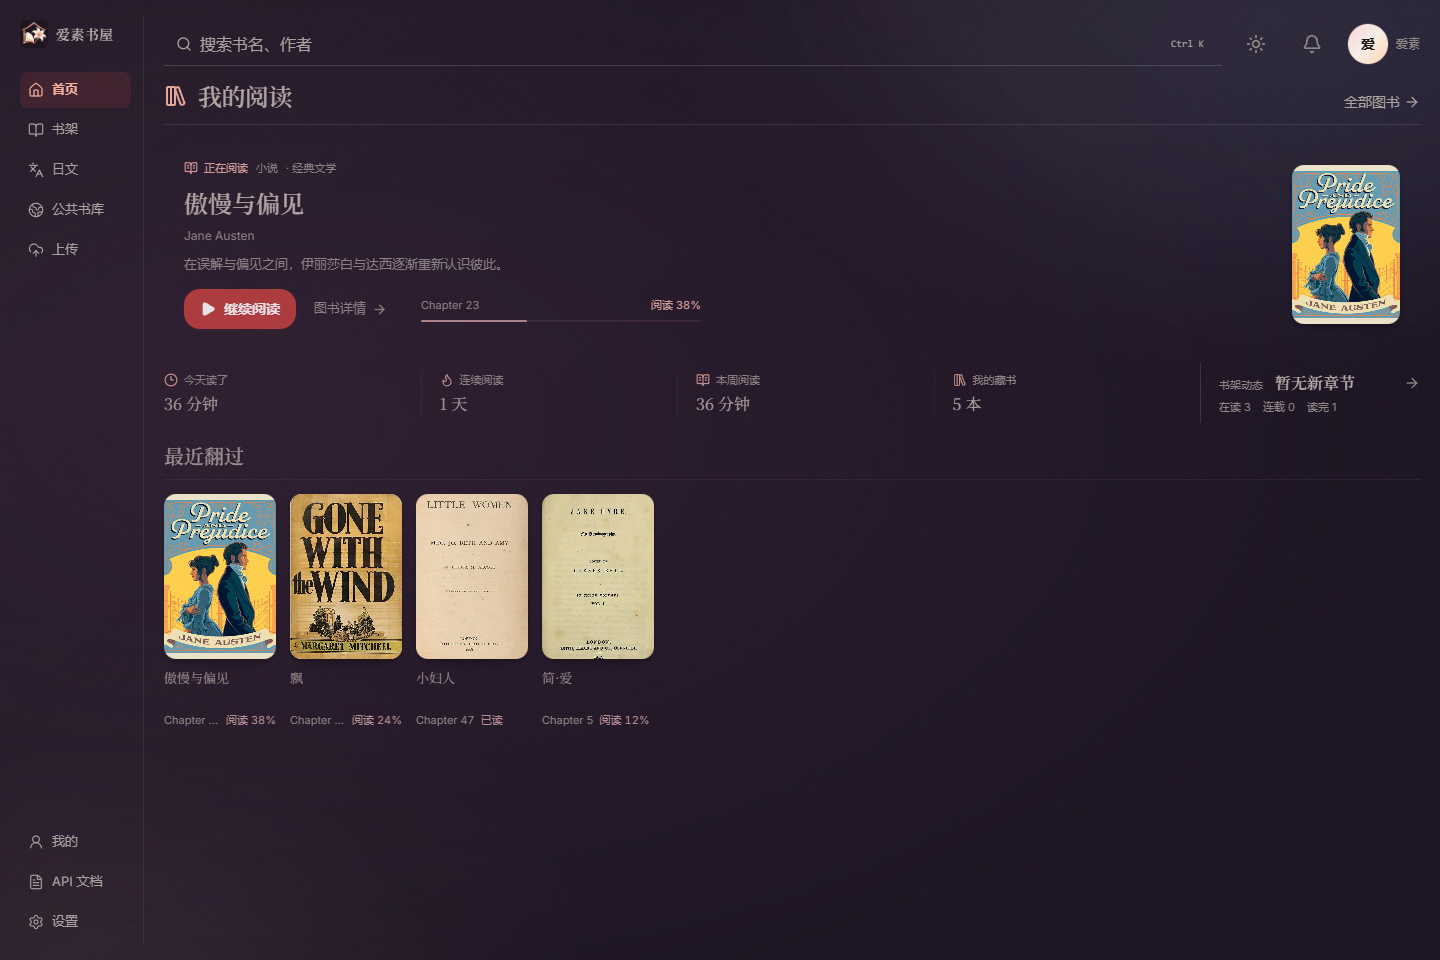
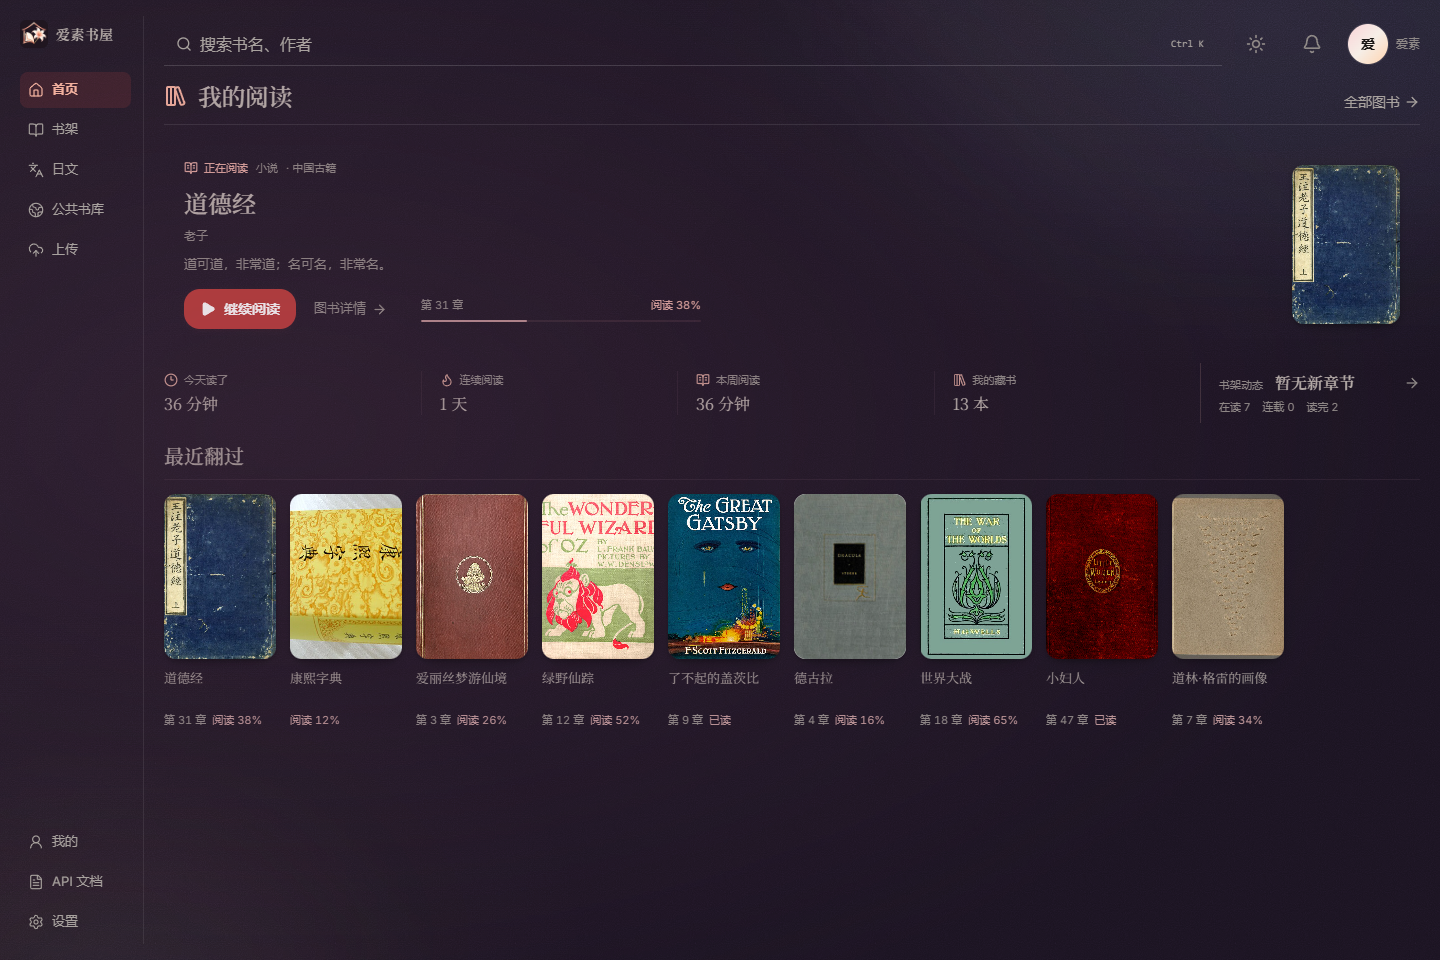
Refresh README and book previews under aisu-bookhouse

diff --git a/README.md b/README.md
@@ -4,60 +4,52 @@
     <img src="public/aisu-brand-light.svg" alt="爱素书屋" width="100" height="100">
   </picture>
   <h1>爱素书屋</h1>
-  <p><strong>把书收藏好，把时间留给阅读。</strong></p>
-  <p>一个可以自己部署的阅读空间，收藏小说、漫画与 PDF，读原文、看译文，也可以闭上眼睛听。</p>
+  <p>自部署的在线书库，支持小说、漫画和 PDF，以及翻译和听书。</p>
   <p>
     <a href="LICENSE"><img alt="MIT License" src="https://img.shields.io/badge/License-MIT-987274?style=flat-square"></a>
     <img alt="React 19" src="https://img.shields.io/badge/React-19-6d8a96?style=flat-square">
     <img alt="TypeScript" src="https://img.shields.io/badge/TypeScript-5d7e99?style=flat-square">
     <img alt="FastAPI" src="https://img.shields.io/badge/FastAPI-658c80?style=flat-square">
-    <img alt="Self hosted" src="https://img.shields.io/badge/自部署-私人书库-b68b91?style=flat-square">
   </p>
-  <p><a href="#界面预览">界面预览</a> · <a href="#可以做什么">功能</a> · <a href="#本地运行">本地运行</a> · <a href="docs/deployment.md">部署说明</a> · <a href="https://github.com/taffy-owo/aisu-bookhouse-open-source/issues">反馈问题</a></p>
+  <p><a href="#界面预览">界面预览</a> · <a href="#功能">功能</a> · <a href="#本地运行">本地运行</a> · <a href="docs/deployment.md">部署说明</a> · <a href="https://github.com/taffy-owo/aisu-bookhouse/issues">反馈问题</a></p>
 </div>
-
----
 
 ## 界面预览
 
 <picture>
   <source media="(prefers-color-scheme: dark)" srcset="docs/images/home-dark.png">
-  <img src="docs/images/home-light.png" alt="爱素书屋首页：继续阅读、最近阅读与个人书库" width="1440">
+  <img src="docs/images/home-light.png" alt="爱素书屋首页" width="1440">
 </picture>
 
 <table>
   <tr>
-    <td width="50%"><img src="docs/images/library.png" alt="书架与分类筛选"><p align="center">把自己的书整理好</p></td>
-    <td width="50%"><img src="docs/images/reader.png" alt="夜间阅读与章节目录"><p align="center">让文字回到画面中心</p></td>
+    <td width="50%"><img src="docs/images/library.png" alt="书架"><p align="center">书架</p></td>
+    <td width="50%"><img src="docs/images/reader.png" alt="夜间阅读与章节目录"><p align="center">夜间阅读</p></td>
   </tr>
 </table>
 
-截图书目为《傲慢与偏见》《飘》《小妇人》《简·爱》和《百年孤独》，封面使用维护者提供的图片；阅读页展示《简·爱》英文原文。素材说明见 [截图素材来源](docs/screenshot-sources.md)。账号与阅读记录仅用于本机演示。
+## 功能
 
-## 可以做什么
-
-| 场景 | 功能 |
+| 功能 | 说明 |
 | --- | --- |
-| 收藏与整理 | 私有书架、收藏、系列、标签、搜索、阅读状态，以及由管理员审核的公共书库 |
-| 导入自己的书 | EPUB、TXT、MOBI、PDF、漫画压缩包和图片；后台处理任务与原文件下载 |
-| 安静阅读 | 字体、字号、行距、纸色与夜间主题；桌面滚动、手机和平板轻点翻页 |
-| PDF 与漫画 | 原页查看、缩放、缩略图导航；PDF 文本模式、扫描页回退、夜间纸面与亮度调整 |
-| 日文与翻译 | 日文书架、原文阅读辅助、AI 翻译任务、译稿审核与来源更新；需要自行配置模型服务 |
-| 听书 | 在线语音与设备朗读；音频临时播放，不在服务器保存音频文件 |
-| 阅读记录 | 阅读进度、书签、备注和阅读统计，同一账号可在不同设备间续读 |
-| 自部署与集成 | 邀请注册、账号权限、SQLite 备份恢复、OpenAPI、带权限范围的个人 API 与外部发布核验 |
-
-AI、OAuth 和部分在线语音功能依赖相应服务及配置。复杂 EPUB 排版、部分 MOBI 文件和特殊压缩包可能需要回退到原文件查看；这不是电子书排版编辑器。
+| 图书导入 | 支持 EPUB、TXT、MOBI、PDF、漫画压缩包和图片 |
+| 书架管理 | 搜索、收藏、标签、系列分组和阅读状态；可将图书提交到公共书库 |
+| 阅读 | 调整字体、字号、行距和背景，切换日间与夜间主题；支持滚动阅读和轻点翻页 |
+| PDF 与漫画 | 缩放、缩略图导航；PDF 支持文本阅读、纸色和亮度调整 |
+| 日文与翻译 | 日文阅读辅助、整书翻译、译稿审核和来源更新，需自行配置模型服务 |
+| 听书 | 支持在线语音和设备朗读，可调节语速 |
+| 阅读记录 | 保存阅读进度、书签和备注，登录同一账号即可跨设备续读 |
+| 账号与管理 | 邀请注册、权限管理、SQLite 备份恢复和个人 API |
 
 ## 本地运行
 
-需要 **Node.js 22.13+（或 24+）**、**Python 3.11** 和 Git。前后端分别启动；开发模式默认使用 SQLite，无需另装数据库。
+需要 **Node.js 22.13+（或 24+）**、**Python 3.11** 和 Git。默认使用 SQLite，无需另装数据库。
 
 ### 1. 获取源码
 
 ```bash
-git clone https://github.com/taffy-owo/aisu-bookhouse-open-source.git
-cd aisu-bookhouse-open-source
+git clone https://github.com/taffy-owo/aisu-bookhouse.git
+cd aisu-bookhouse
 ```
 
 ### 2. 启动后端
@@ -70,7 +62,7 @@ python -m pip install -r requirements.txt
 cp .env.example .env
 ```
 
-先编辑 `backend/.env`，填写自己的管理员邮箱、密码、JWT 密钥与独立加密密钥，再启动：
+编辑 `backend/.env`，填写管理员邮箱、密码、JWT 密钥和加密密钥，然后启动：
 
 ```bash
 python -m uvicorn app.main:app --reload --host 127.0.0.1 --port 8000 --env-file .env
@@ -103,46 +95,34 @@ npm run dev
 
 PowerShell 使用 `Copy-Item .env.example .env.local` 复制配置。
 
-打开终端显示的本地地址（通常为 `http://localhost:5173`），使用刚配置的管理员账号登录，然后上传自己的图书。新数据库默认是空书架；注册需要管理员生成的邀请码。
+打开终端显示的地址（通常为 `http://localhost:5173`），用配置好的管理员账号登录并上传图书。其他用户需要邀请码注册，管理员可以在网站中创建邀请码。
 
-后端接口文档：`http://127.0.0.1:8000/docs`。
+服务器部署、独立 worker 和生产环境配置见 [部署说明](docs/deployment.md)。后端接口文档位于 `http://127.0.0.1:8000/docs`。
 
-## 技术栈与目录
+## 开发
 
-**前端**：React 19、TypeScript、Vite、Tailwind CSS、PDF.js。  
-**后端**：FastAPI、SQLAlchemy、Alembic、SQLite / PostgreSQL。  
-**验证**：Vitest、Pytest，以及基于 Chromium 的阅读交互检查。
+前端使用 React、TypeScript、Vite 和 Tailwind CSS；后端使用 FastAPI、SQLAlchemy 和 Alembic，支持 SQLite 与 PostgreSQL。
 
 ```text
-src/                前端页面、阅读器与共享组件
-backend/app/        API、账号、书库、上传、翻译与备份
+src/                前端页面与阅读器
+backend/app/        后端 API 与业务逻辑
 backend/alembic/    数据库迁移
 backend/tests/      后端测试
-public/             品牌、图标与自托管字体
-scripts/quality/    独立演示数据与浏览器检查
-docs/               部署、架构与项目截图
+public/             图标与字体
+docs/               部署文档与截图
 ```
-
-SQLite 支持内置整站备份恢复；PostgreSQL 需要自行维护数据库与文件备份。服务器部署、独立 worker 和生产环境配置见 [部署说明](docs/deployment.md)。
-
-## 开发与贡献
 
 ```bash
 npm run lint
 npm test
 npm run build
 python -m pip install -r backend/requirements-dev.txt
-python -m pytest backend/tests
+cd backend
+python -m pytest tests
 ```
 
-浏览器交互检查按需运行，例如 `npm run test:pdf-controls`，需要安装 Chromium、Chrome 或 Edge。
+提交问题或参与开发，请看 [贡献指南](CONTRIBUTING.md)。安全问题请按 [安全说明](SECURITY.md) 私下报告。
 
-欢迎提交问题与改进，先阅读 [贡献指南](CONTRIBUTING.md)。安全问题请按 [安全说明](SECURITY.md) 私下报告。公开仓库只包含运行源码、必要资源和演示数据；真实图书、账号数据库、密钥、日志、备份与私人运维历史不属于开源内容。
+## 许可
 
-## 致谢与许可
-
-项目首页的组织方式参考 [Best-README-Template](https://github.com/othneildrew/Best-README-Template)、[readme.so](https://github.com/octokatherine/readme.so) 和 [awesome-readme](https://github.com/matiassingers/awesome-readme)。阅读界面的内容层级与交互细节参考 [Kakuyomu](https://kakuyomu.jp/)。
-
-项目代码采用 [MIT License](LICENSE)。第三方库、字体及其许可见 [第三方说明](THIRD_PARTY_NOTICES.md)。本项目不附带第三方电子书、漫画、私人预设或模型凭据；导入内容的使用与授权由部署者自行管理。
-
-
+[MIT License](LICENSE) · [第三方许可](THIRD_PARTY_NOTICES.md)

diff --git a/docs/screenshot-sources.md b/docs/screenshot-sources.md
@@ -1,17 +1,21 @@
-# 截图素材说明
+# 截图素材许可
 
-README 图片由本项目实际前端在本机演示环境中截取。书名和作者对应真实作品；账号、阅读进度与统计为演示数据，没有使用私人账号或线上书库。新部署的书架默认为空。
+| 作品 | 封面来源 | 许可 |
+| --- | --- | --- |
+| 道德经 | [1770年王弼注本](https://commons.wikimedia.org/wiki/File:DaoDeJingWangBi.jpg) | Public domain |
+| 康熙字典 | [古籍封面实物照片](https://commons.wikimedia.org/wiki/File:K%27ang_Hsi_Dictionary.jpg) | [CC BY-SA 3.0](https://creativecommons.org/licenses/by-sa/3.0/)；摄影：WikiCantona。截图中缩放和裁切，图像部分沿用此许可。 |
+| 新著国语文法 | [1924年版本](https://commons.wikimedia.org/wiki/File:%E6%96%B0%E8%91%97%E5%9C%8B%E8%AA%9E%E6%96%87%E6%B3%95.jpg) | Public domain |
+| 爱丽丝梦游仙境 | [1865年封面](https://commons.wikimedia.org/wiki/File:Alice%27s_Adventures_in_Wonderland_cover_(1865).jpg) | Public domain |
+| 绿野仙踪 | [1900年初版](https://commons.wikimedia.org/wiki/File:The_Wonderful_Wizard_of_Oz_first_edition_cover.jpg) | Public domain |
+| 了不起的盖茨比 | [1925年初版](https://commons.wikimedia.org/wiki/File:The_Great_Gatsby_cover_1925_wikisource.jpg) | Public domain |
+| 德古拉 | [1897年版本](https://commons.wikimedia.org/wiki/File:Dracula_cover_600px.jpg) | Public domain |
+| 时间机器 | [1895年封面](https://commons.wikimedia.org/wiki/File:The_Time_Machine_(Heinemann_text)_-_front_cover.jpg) | Public domain |
+| 世界大战 | [1898年美国初版](https://commons.wikimedia.org/wiki/File:The_War_of_the_Worlds_by_H._G._Wells_(US_book_cover%2C_1898).jpg) | Public domain |
+| 小妇人 | [1869年版本](https://commons.wikimedia.org/wiki/File:Little_Women_-_cover.png) | Public domain |
+| 道林·格雷的画像 | [1891年初版](https://commons.wikimedia.org/wiki/File:Houghton_HEW_12.10.15_-_The_Picture_of_Dorian_Gray%2C_1891_(cover).jpg) | Public domain |
+| 圣诞颂歌 | [1843年初版精装封面](https://commons.wikimedia.org/wiki/File:Charles_Dickens-A_Christmas_Carol-Cloth-First_Edition_1843.jpg) | Public domain |
+| 悲惨世界 | [美国国家公园管理局馆藏封面](https://commons.wikimedia.org/wiki/File:Cover_of_the_book_Les_Miserables_(db53b829-1fcf-42be-b3a0-01004e685d45).jpg) | Public domain |
 
-截图使用项目维护者提供的五张封面图片，分别对应：
+阅读页正文：Lewis Carroll，*Alice’s Adventures in Wonderland*，第一章。来源：[Project Gutenberg #11](https://www.gutenberg.org/ebooks/11)。
 
-| 作品 | 作者 |
-| --- | --- |
-| 傲慢与偏见 / Pride and Prejudice | Jane Austen |
-| 飘 / Gone with the Wind | Margaret Mitchell |
-| 小妇人 / Little Women | Louisa May Alcott |
-| 简·爱 / Jane Eyre | Charlotte Brontë |
-| 百年孤独 / Cien años de soledad | Gabriel García Márquez |
-
-封面仅作为界面展示素材出现在截图中，按实际书架容器缩放显示；原始封面文件和完整电子书不随仓库分发。封面图像的权利归相应权利人，本项目的 MIT 许可不适用于这些封面图像。
-
-阅读页节选 Charlotte Brontë 的 *Jane Eyre* 第一章英文原文，来源 [Project Gutenberg，电子书 #1260](https://www.gutenberg.org/ebooks/1260)。此处未使用现代译本正文，也没有附带完整电子书文件。
+以上素材的许可独立于项目代码的 MIT 许可。

diff --git a/docs/architecture.md b/docs/architecture.md
@@ -11,6 +11,3 @@
 原始图书、解析后的章节/封面与运行状态写入配置的存储目录；数据库保存账号、元数据、任务和阅读记录。下载与阅读通过鉴权 API 提供。模型密钥在后端加密存储或从服务器环境读取。
 
 前端阅读主题与站点主题分别记忆；PDF 原页的纸色与亮度只改变显示，不改写原文件。听书音频仅在播放流程中临时使用。
-
-开源快照保留应用与测试，排除私人服务器拓扑、一次性迁移/修复脚本、调试产物、第三方私人预设与旧运维历史。
-
